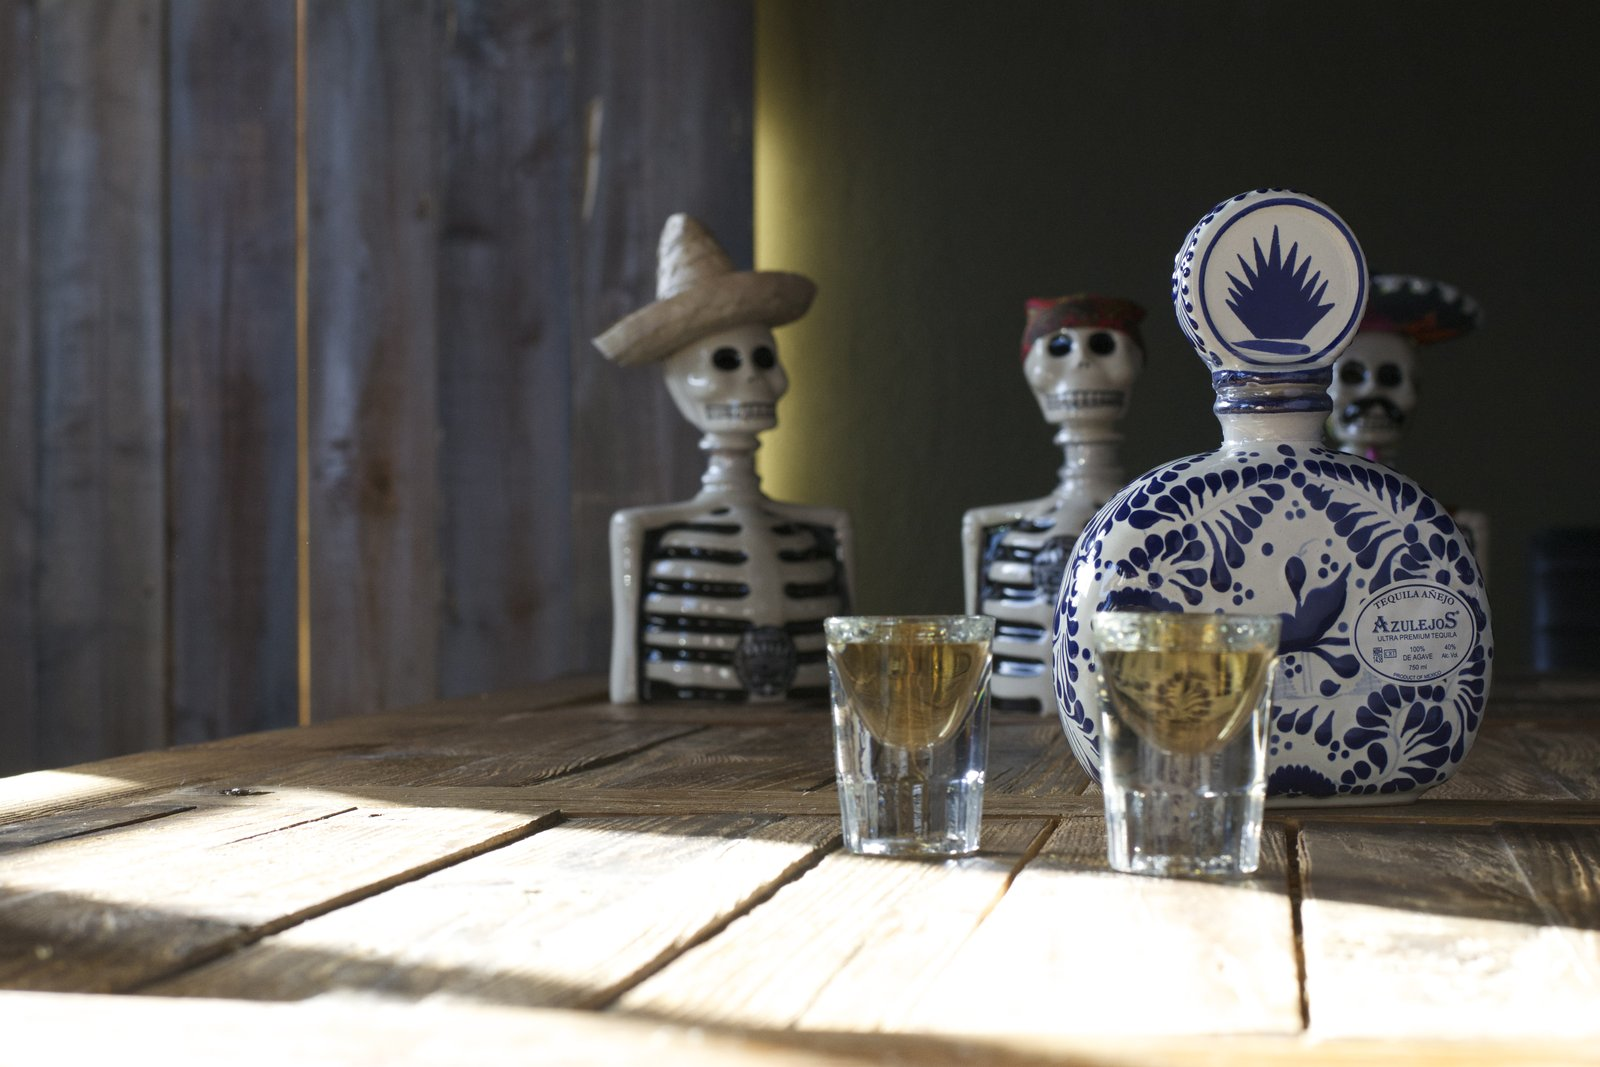
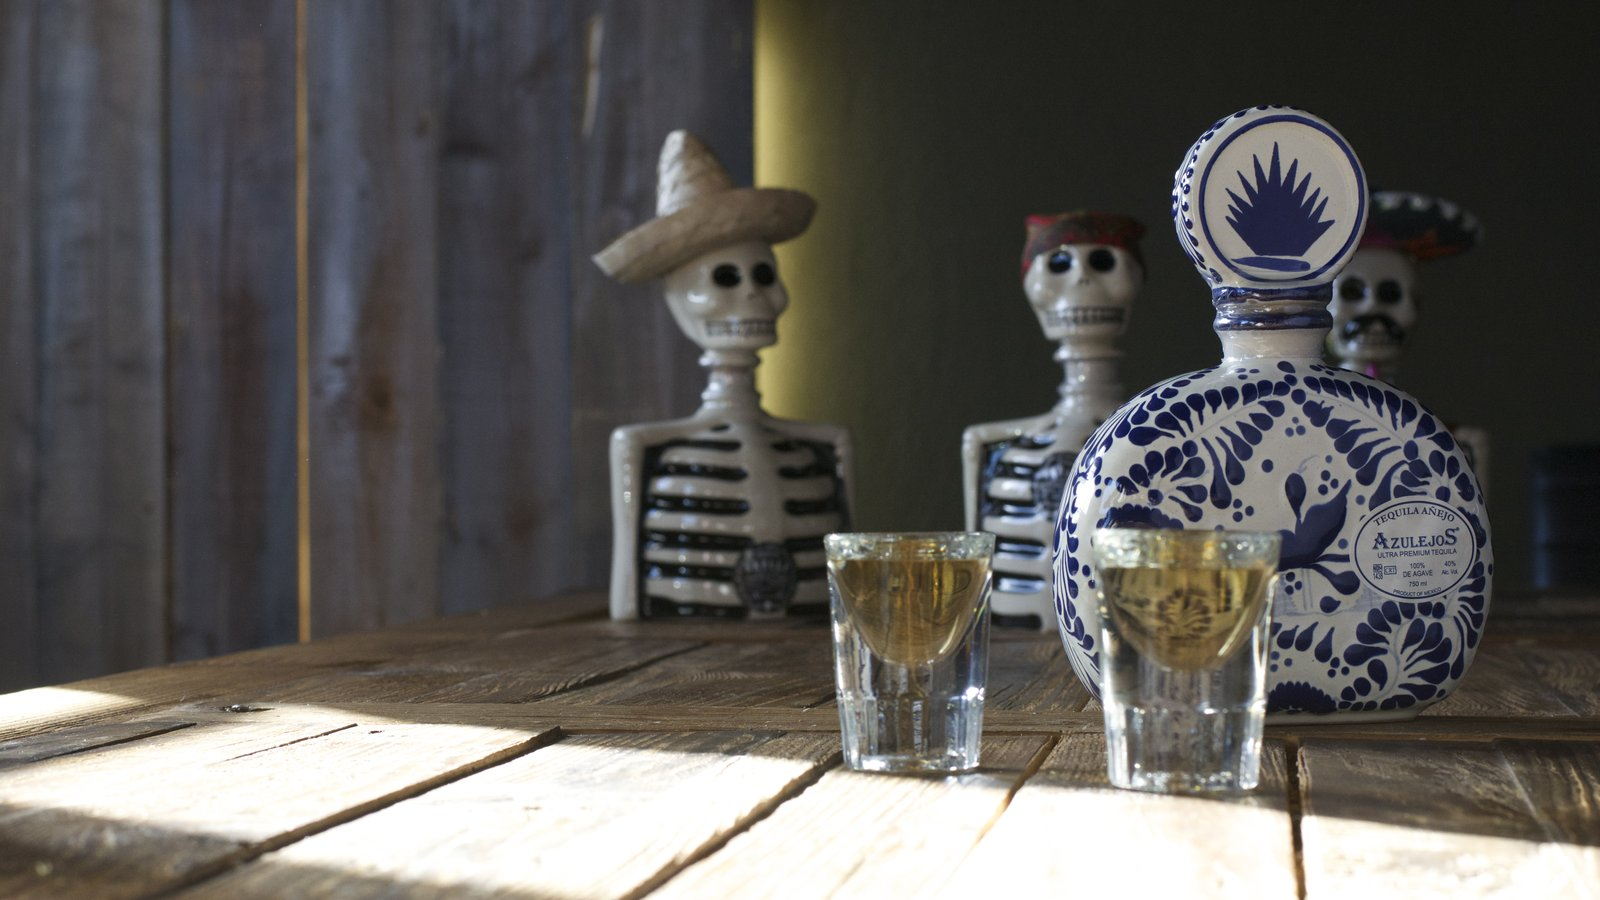
Bilder i samma storlek med samma kod som main
- Bildfilerna för startsidan och kontakt beskärs till 16:9 i stället för med CSS,
  så alla bilder använder "flex w-full h-auto object-cover" som agavebilden på main
- Privatimport: samma bildkod som main ("max-w-full h-80 w-auto mx-auto object-cover"),
  bilden till höger
- Kontakt: bilden till höger; Startsidan och Restaurangkund till vänster
- Startsidan, Privatimport, Restaurangkund och Kontakt får samma bildstorlek (ca 580×320)

Claude-Session: https://claude.ai/code/session_01VjDJLX35kfDgxryE3ahR7S

diff --git a/components/ImageTextSection.js b/components/ImageTextSection.js
@@ -2,29 +2,30 @@ import Image from "next/image";
 
 /**
  * Bild och text bredvid varandra (på mobil: bilden överst).
- * imageRight flyttar bilden till höger på dator.
- * imageClassName ersätter standardhöjden, t.ex. för en bild i sitt naturliga format.
+ * Bilden visas i sitt eget format (bildfilerna är beskurna till 16:9) med samma
+ * klasser som startsidans bild hade på main: "flex w-full h-auto object-cover".
+ * imageRight lägger bilden till höger på dator. imageClassName ersätter bildens klasser.
  */
-const defaultImageClass = "h-64 sm:h-80 lg:h-[30rem]";
-
 export default function ImageTextSection({
     image,
     alt,
     imageRight = false,
-    imageClassName = defaultImageClass,
+    imageClassName = "flex w-full h-auto object-cover",
     priority = false,
     children,
 }) {
     return (
         <section className="grid lg:grid-cols-2 gap-10 lg:gap-14 items-center">
-            <Image
-                src={image}
-                alt={alt}
-                placeholder="blur"
-                sizes="(min-width: 1280px) 600px, (min-width: 1024px) 50vw, 100vw"
-                className={`w-full object-cover ${imageClassName} ${imageRight ? "lg:order-last" : ""}`}
-                priority={priority}
-            />
+            <div className={imageRight ? "lg:order-last" : ""}>
+                <Image
+                    src={image}
+                    alt={alt}
+                    placeholder="blur"
+                    sizes="(min-width: 1280px) 600px, (min-width: 1024px) 50vw, 100vw"
+                    className={imageClassName}
+                    priority={priority}
+                />
+            </div>
             <div>{children}</div>
         </section>
     );

diff --git a/app/privatimport/page.js b/app/privatimport/page.js
@@ -32,6 +32,8 @@ export default function Privatimport() {
             <ImageTextSection
                 image={privatimportImage}
                 alt="Tre Skelly-flaskor från Los Azulejos på en hylla"
+                imageClassName="max-w-full h-80 w-auto mx-auto object-cover"
+                imageRight
                 priority
             >
                 <PageHeading align="responsive">Privatimport</PageHeading>

diff --git a/app/page.js b/app/page.js
@@ -52,7 +52,6 @@ export default function Home() {
                 <ImageTextSection
                     image={heroImage}
                     alt="Skelly- och Talavera-flaskor från Los Azulejos med tequilaglas på ett träbord"
-                    imageClassName="h-auto aspect-video"
                     priority
                 >
                     <PageHeading align="responsive">Välkommen</PageHeading>

diff --git a/app/kontakt/page.js b/app/kontakt/page.js
@@ -25,6 +25,7 @@ export default function Kontakt() {
             <ImageTextSection
                 image={contactImage}
                 alt="Skelly-flaska från Los Azulejos på en klippa vid havet"
+                imageRight
                 priority
             >
                 <PageHeading align="responsive">Kontakt</PageHeading>
